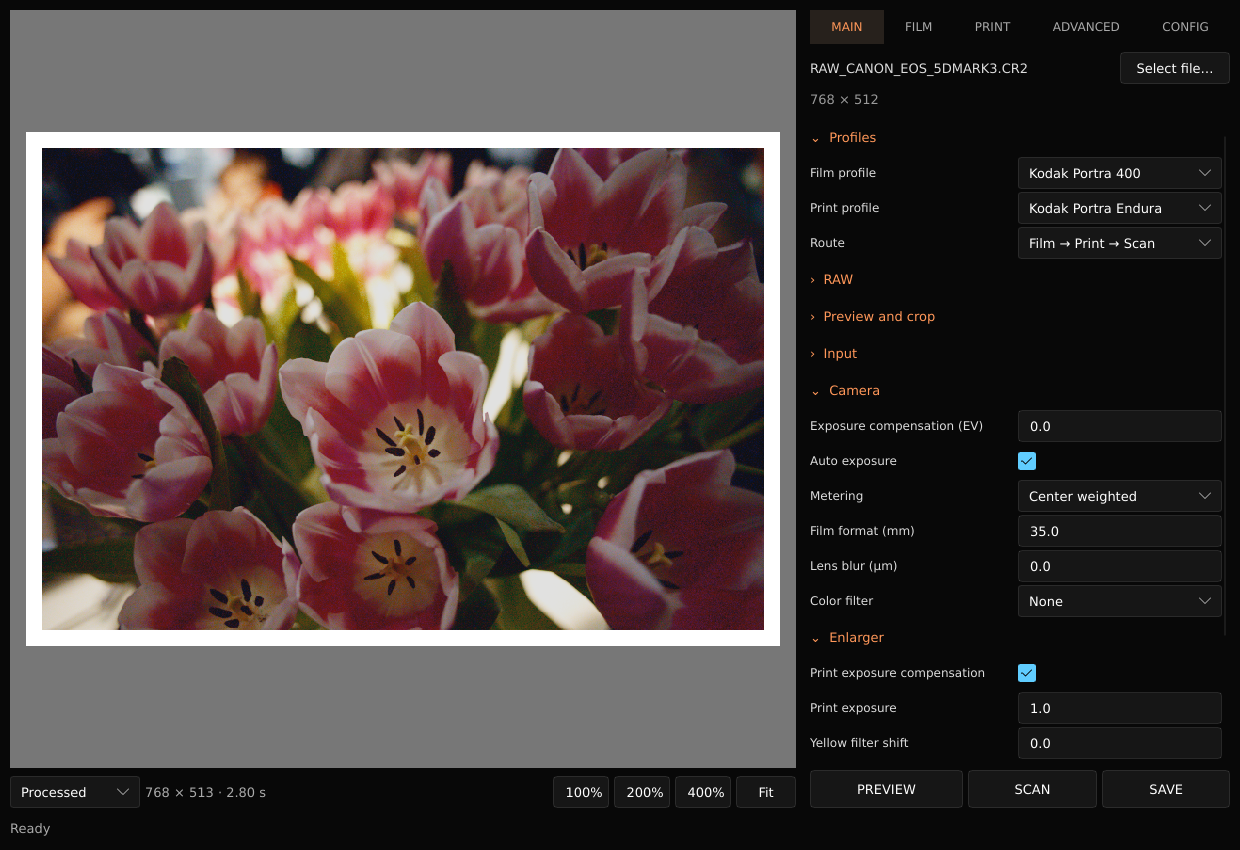
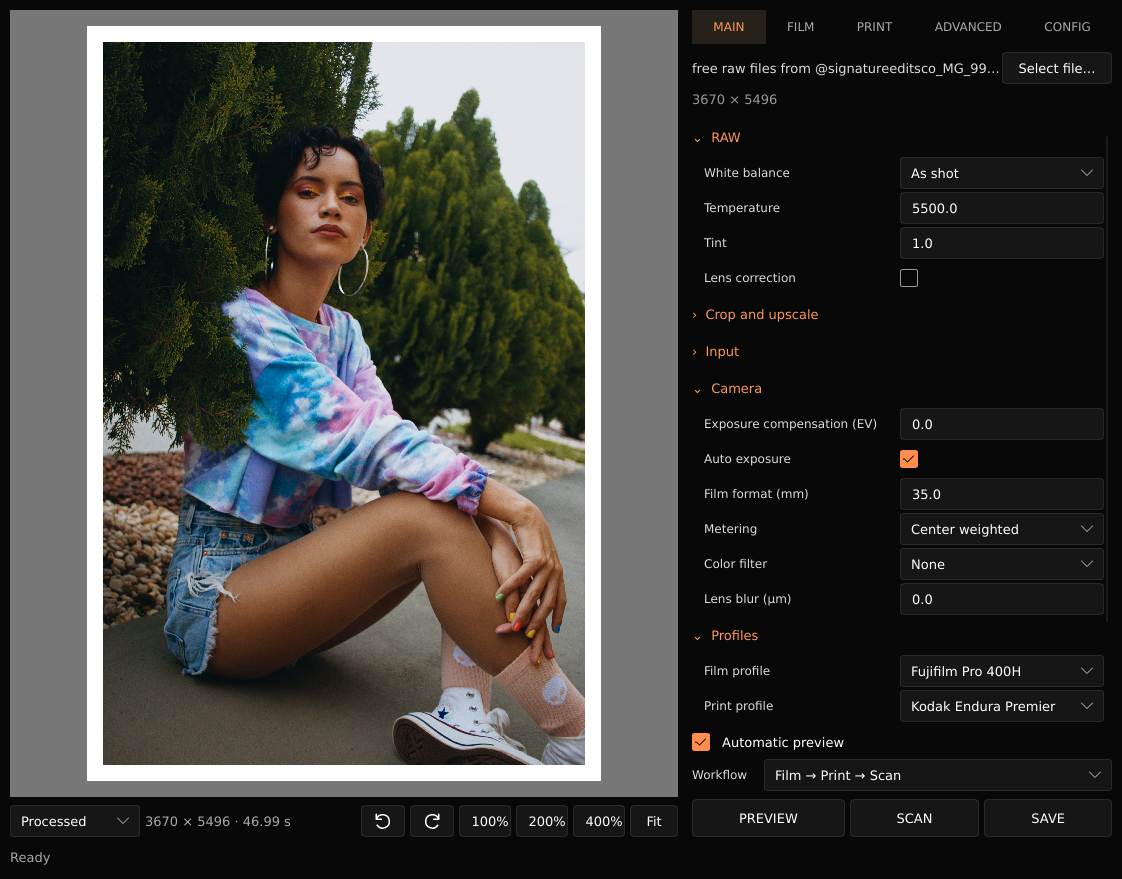
docs: refresh README preview and add Russian translation

diff --git a/README.ru.md b/README.ru.md
@@ -1,0 +1,63 @@
+<div align="center">
+
+# fast-spektrafilm
+
+[![Релиз](https://img.shields.io/github/v/release/dmitryprikhunov/fast-spektrafilm?label=release&style=flat-square&color=ff985a)](https://github.com/dmitryprikhunov/fast-spektrafilm/releases/latest)
+[![Linux x86_64](https://img.shields.io/badge/Linux-x86__64-ff985a?style=flat-square)](RELEASES.md)
+[![Лицензия: GPL-3.0-only](https://img.shields.io/badge/license-GPL--3.0--only-ff985a?style=flat-square)](LICENSE)
+
+[🇬🇧 English](README.md)
+
+Симуляция фотоплёнки и фотопечати для RAW- и RGB-изображений: библиотека на Rust,
+CLI и десктопное приложение на Slint. Изображение проходит через экспонирование
+плёнки, проявку, печать и сканирование с настройками цвета, зерна и оптических
+эффектов.
+
+Основано на [spektrafilm](https://github.com/andreavolpato/spektrafilm/tree/28bf883e1672e884307edc75852549376e13644e)
+**Андреа Вольпато (Andrea Volpato) и участников проекта spektrafilm**. Исходные
+сведения об авторстве, данные и лицензии сохранены; этот порт распространяется
+под GPLv3.
+
+![Интерфейс приложения с обработанной RAW-фотографией и настройками плёнки](docs/images/interface.png)
+
+Фотография в превью взята из
+[коллекции бесплатных RAW-фотографий Signature Edits](https://www.signatureedits.com/free-raw-photos/).
+Она принадлежит её автору, а не проекту fast-spektrafilm.
+
+## Начало работы
+
+Готовые сборки CLI и десктопного приложения для Linux x86_64 доступны в
+[GitHub Releases](https://github.com/dmitryprikhunov/fast-spektrafilm/releases).
+Инструкции по установке и требования к системе — в [RELEASES.md](RELEASES.md).
+
+Для сборки из исходников ознакомьтесь с требованиями в
+[DEVELOPMENT.md](DEVELOPMENT.md), затем выполните из корня репозитория:
+
+```sh
+# Десктопное приложение
+cargo run --release --locked --features gui --bin fast-spektrafilm-gui
+
+# Командная строка
+cargo run --release --locked -- process input.tiff output.tiff
+```
+
+Откройте изображение, настройте обработку с помощью **Preview**, затем нажмите
+**Scan** для обработки в полном разрешении. **Save** использует готовый результат
+сканирования, если настройки не изменились. Число потоков процессора выбирается
+автоматически; ограничить его можно параметром `--threads N`.
+
+Поддерживаются RAW, PNG, JPEG, TIFF, WebP, EXR и RGB NPY. Десктопное приложение и
+CLI используют общие настройки обработки в формате JSON.
+
+Дополнительная документация на английском:
+
+[Руководство по приложению](GUI.md) · [Сборка, CLI и библиотека](DEVELOPMENT.md) ·
+[Состояние переноса и технический долг](MIGRATION.md) · [Проверка точности](VALIDATION.md) ·
+[Участие в разработке](CONTRIBUTING.md) · [Бенчмарки](BENCHMARKS.md) · [Лицензия](LICENSE)
+
+Продукт включает программное обеспечение, разработанное Чикагским университетом
+как оператором Аргоннской национальной лаборатории (MINPACK). Сведения об
+авторстве и лицензионные уведомления для арифметики SciPy и OpenBLAS, а также
+CORE-MATH сохранены в [licenses/](licenses).
+
+</div>

diff --git a/README.md b/README.md
@@ -1,6 +1,16 @@
+<div align="center">
+
 # fast-spektrafilm
 
-Film and print simulations for RAW and RGB images, with a Rust CLI and desktop app.
+[![Release](https://img.shields.io/github/v/release/dmitryprikhunov/fast-spektrafilm?label=release&style=flat-square&color=ff985a)](https://github.com/dmitryprikhunov/fast-spektrafilm/releases/latest)
+[![Linux x86_64](https://img.shields.io/badge/Linux-x86__64-ff985a?style=flat-square)](RELEASES.md)
+[![License: GPL-3.0-only](https://img.shields.io/badge/license-GPL--3.0--only-ff985a?style=flat-square)](LICENSE)
+
+[🇷🇺 Русский](README.ru.md)
+
+Film and print simulations for RAW and RGB images, with a Rust library, CLI and
+Slint desktop app. Process an image through film exposure, development, printing
+and scanning, with controls for colour, grain and optical effects.
 
 Based on [spektrafilm](https://github.com/andreavolpato/spektrafilm/tree/28bf883e1672e884307edc75852549376e13644e)
 by **Andrea Volpato and the spektrafilm contributors**. Original attribution,
@@ -8,13 +18,18 @@ data and licenses are retained; this port is GPLv3.
 
 ![Desktop interface showing a processed RAW photo and film controls](docs/images/interface.png)
 
+The photo shown in the preview comes from
+[Signature Edits' free RAW photo collection](https://www.signatureedits.com/free-raw-photos/).
+It belongs to its original photographer, not the fast-spektrafilm project.
+
 ## Get started
 
 Linux x86_64 binaries for the CLI and desktop app are available in
 [GitHub Releases](https://github.com/dmitryprikhunov/fast-spektrafilm/releases).
 See [RELEASES.md](RELEASES.md) for installation and runtime requirements.
 
-Run from the repository root:
+To build from source, see the prerequisites in [DEVELOPMENT.md](DEVELOPMENT.md),
+then run from the repository root:
 
 ```sh
 # Desktop app
@@ -28,6 +43,9 @@ Open an image, adjust settings with **Preview**, then **Scan** at full resolutio
 **Save** reuses the scan when settings match. CPU threads are selected automatically;
 use `--threads N` to set a limit.
 
+Supported inputs include RAW, PNG, JPEG, TIFF, WebP, EXR and RGB NPY. The desktop
+app and CLI share JSON processing settings.
+
 [App guide](GUI.md) · [Build requirements and CLI/library usage](DEVELOPMENT.md) ·
 [Migration status and technical debt](MIGRATION.md) · [Validation](VALIDATION.md) ·
 [Contributing](CONTRIBUTING.md) · [Benchmarks](BENCHMARKS.md) · [License](LICENSE)
@@ -35,3 +53,5 @@ use `--threads N` to set a limit.
 This product includes software developed by the University of Chicago, as
 Operator of Argonne National Laboratory (MINPACK). SciPy and OpenBLAS arithmetic
 and CORE-MATH attribution and license notices are preserved in [licenses/](licenses).
+
+</div>
